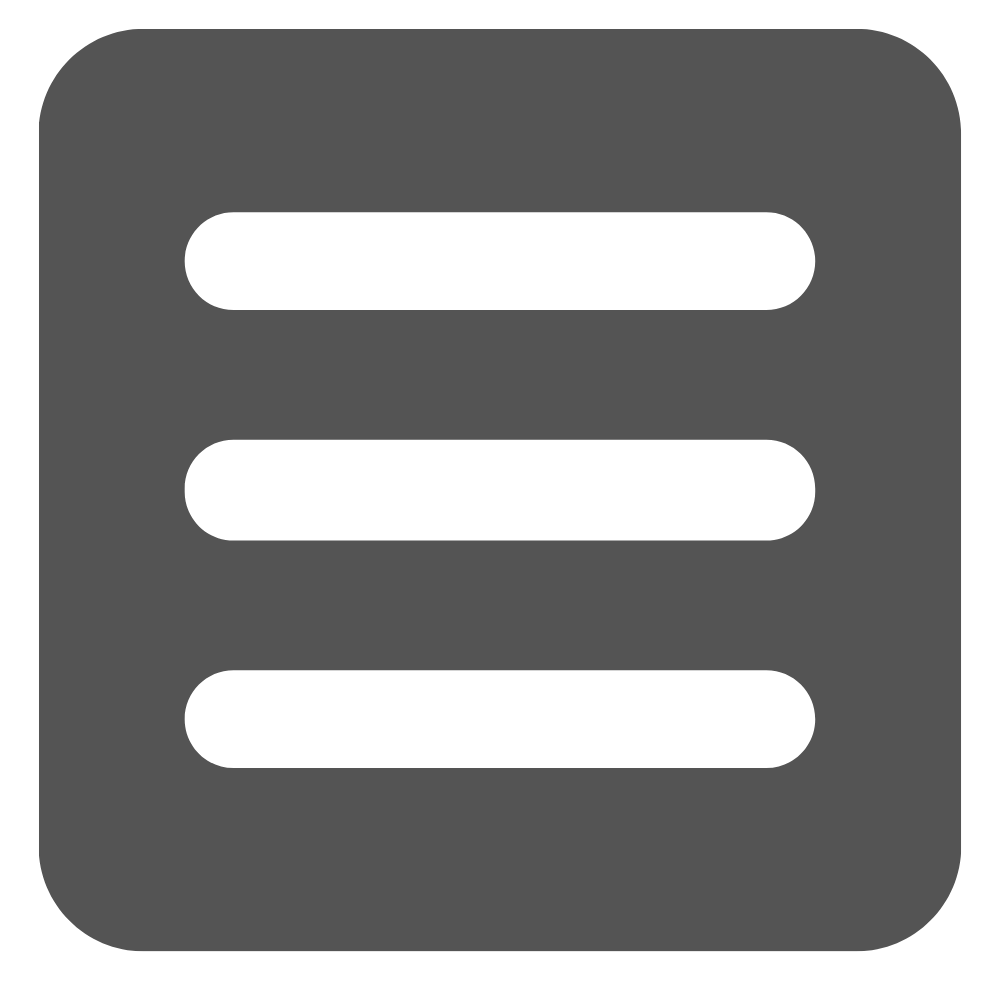
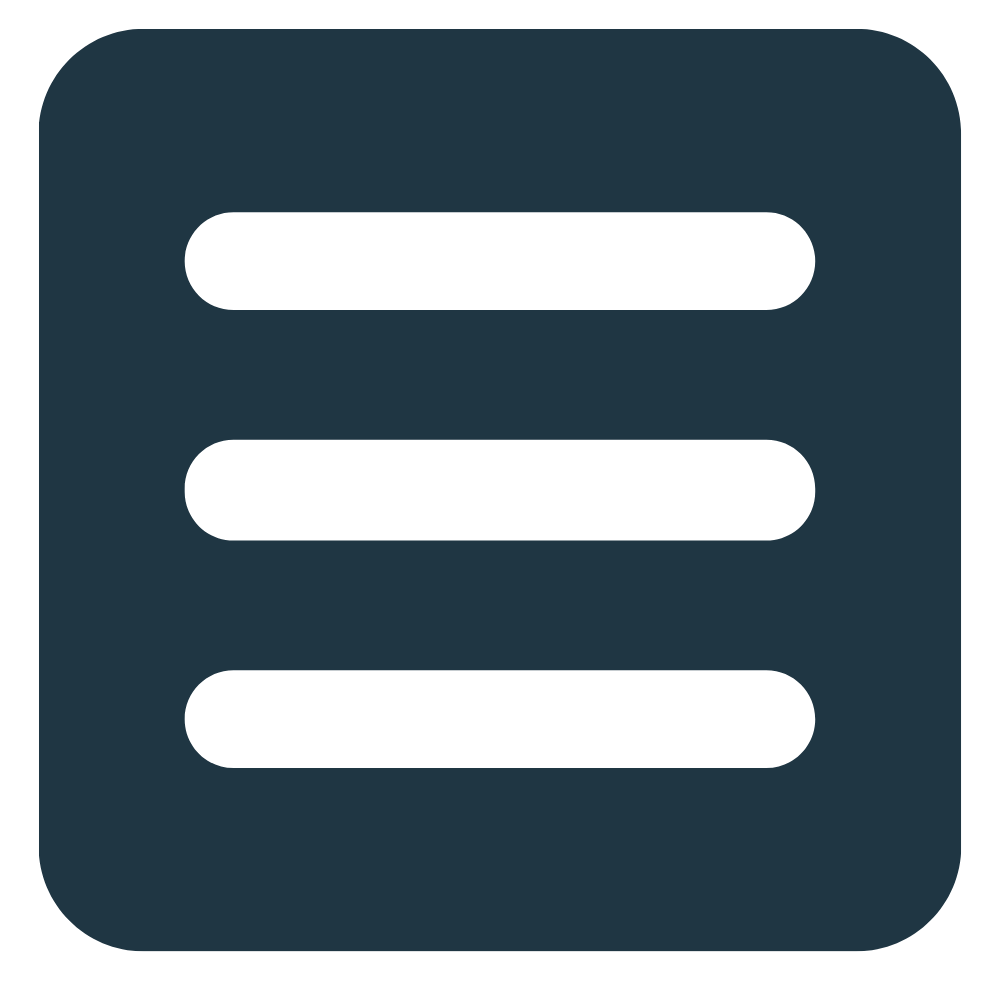
Hamburgare
Hamburgare

diff --git a/styles.css b/styles.css
@@ -294,6 +294,7 @@ Px to rem calculator: https://nekocalc.com/px-to-rem-converter
     flex-direction: row;
     align-items:center;
     transition: 0.5s;
+     
 }
     
     /* Ta bort punktlistor från länkarna i menyn */
@@ -303,7 +304,7 @@ Px to rem calculator: https://nekocalc.com/px-to-rem-converter
     
     /* Stilar för länkarna i menyn */
     .hamburgerMenu li a {
-        color: white;
+        color: #1f3643;
         text-decoration: none;
         display: block;
         padding: 2.5rem 1.5625rem; 
@@ -315,7 +316,7 @@ Px to rem calculator: https://nekocalc.com/px-to-rem-converter
     /* Animeringseffekt när musen "hover"" över länkarna */
     /* Skugga och bakgrundseffekt */
     .hamburgerMenu li a:hover {
-        box-shadow: 0 -5px 0px white inset,
+        box-shadow: 0 -5px 0px  #1f3643 inset,
         500px 0 0 rgba(255, 255, 255, 0.03) inset;
         padding: 35px 25px 45px 25px;
     }
@@ -351,47 +352,65 @@ Px to rem calculator: https://nekocalc.com/px-to-rem-converter
     
     /*Mobil*/
     /*Layouten fixas för hamburgermenyn för mindre skärmar, maximalt 768px, 48 rem*/
-     @media screen and (max-width: 48rem) {
-    .hamburgerIcon,
-    .toggleHamburgerCheckbox {
-        display: block;
+    @media screen and (max-width: 48rem) {
+        .hamburgerIcon,
+        .toggleHamburgerCheckbox {
+            display: block;
+        }
+    
+        /*Full width and height for hamburgerMenu */
+        .hamburgerMenu {
+            position: fixed;
+            top: 0;
+            left: 0;
+            width: 100vw;
+            height: 100vh;
+            background: #F1E0FF;
+            display: flex;
+            flex-direction: column;
+            align-items: center;
+            justify-content: center;
+            font-size: 1rem !important;
+            font-weight: 800;
+        }
+    
+        /*Luft i listan med alla komponeneter i meny listan*/
+        .hamburgerMenu li {
+            margin-top: 3rem; 
+        }
+    
     }
-    .hamburgerMenu {
-        justify-content: start;
-        flex-direction: column;
-        align-items: center;
-        display: flex;
-        margin-top: 0;
-        background: grey;
-        width: 100%; 
-        height: auto;
-        padding-top: 4.0625rem;
-        padding: 3rem 1rem; 
-        font-size: 1rem!important; 
-    }
-}
 
        /*Dator*/
        /*Skärmar som är större än eller lika med 784px, 49 rem*/
-  @media screen and (min-width: 49rem) {
-    .hamburgerIcon,
-    .toggleHamburgerCheckbox {
-        display: block;
-    }
-    .hamburgerMenu {
-        justify-content: start;
-        flex-direction: column;
-        align-items: center;
-        display: flex;
-        margin-top: 0;
-        background: grey;
-        width: 100%; 
-        height: auto;
-        padding-top: 4.0625rem;
-        padding: 6rem 2rem; 
-        font-size: 1.5rem!important; 
+       @media screen and (min-width: 49rem) {
+        .hamburgerIcon,
+        .toggleHamburgerCheckbox {
+            display: block;
+        }
+    
+        .hamburgerMenu {
+            position: fixed;
+            top: 0;
+            left: 0;
+            width: 100vw;
+            height: 100vh;
+            background: #F1E0FF;
+            display: flex;
+            flex-direction: column;
+            align-items: center;
+            justify-content: center;
+            font-size: 1.5rem !important;
+            font-weight: 800;
+            z-index: 6000; 
+        }
+        
+          /*Luft i listan med alla komponeneter i meny listan*/
+        .hamburgerMenu li {
+            margin-top: 2rem; 
         
     }
+
 }
 
     /* Stil för länkarna i hamburgermenyn,bredd. */
@@ -422,7 +441,7 @@ Px to rem calculator: https://nekocalc.com/px-to-rem-converter
         position: fixed;
         margin-top: 0;
         margin-left: 0;
-        z-index: 999;
+        z-index: 6000;
       }
 
       /* X ikonen, för att stänga hamburger menyn */
@@ -436,6 +455,7 @@ Px to rem calculator: https://nekocalc.com/px-to-rem-converter
 }
 
 /* hamburger SLUT: Madelene*/
+
 
 
 /* Slidern START, Jag har använt mig av W3 Schools och Chat Gpt för att finjustera

diff --git a/index.html b/index.html
@@ -25,12 +25,30 @@
         <div class="hamburger-wrapper">
             <aside class="hamburgerNavigation">
                 <input type="checkbox" id="toggleHamburgerCheckbox" class="toggleHamburgerCheckbox">
+                
+                
                 <label for="toggleHamburgerCheckbox" class="hamburgerIcon">
                     <div class="hamburgerIconSpace">
-                        <img src="hamburgerIcon.png" alt="hamburger" width="70" height="60" class="hamburgerImage">
+                        <img src="hamburgerIcon.png" alt="hamburger" width="50" height="40" class="hamburgerImage">
                     </div>
                 </label>
+
+                
                 <ul class="hamburgerMenu">
+                    <li>
+                        <div class="hamburger-wrapper">
+                            <aside class="hamburgerNavigation">
+                                <input type="checkbox" id="toggleHamburgerCheckbox" class="toggleHamburgerCheckbox">
+                                
+                                <label for="toggleHamburgerCheckbox" class="hamburgerIcon">
+                                    <div class="hamburgerIconSpace">
+                                        <img src="closeHamburgerIcon.png" alt="hamburger" width="50" height="40">
+                                   </div>
+                                </label>
+                            </aside>
+                        </div>
+                    </li>
+
                     <li><a href="index.html">Hem</a></li>
                     <li><a href="#">Medlem och community</a></li>
                     <li><a href="#">Ge en gåva</a></li>
@@ -43,7 +61,6 @@
                 </ul>
             </aside>
         </div>
-
         <!--HAMBURGER "END": Madelene-->
 
 
